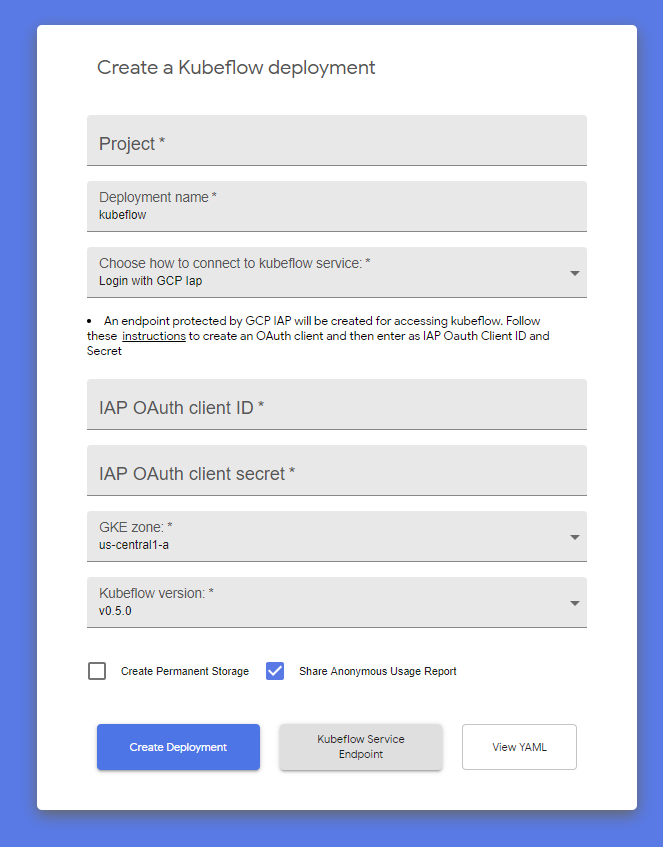
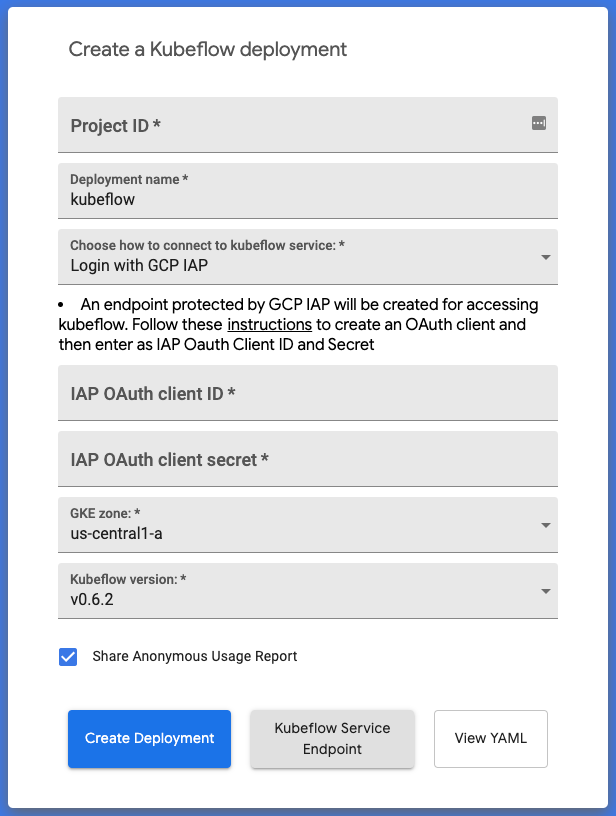
Updated the GCP deployment UI for Kubeflow v0.6.2. (#1219)

diff --git a/content/docs/gke/deploy/deploy-ui.md b/content/docs/gke/deploy/deploy-ui.md
@@ -30,14 +30,14 @@ Follow these steps to open the deployment UI and deploy Kubeflow on GCP:
   for your GCP project.
 1. Complete the following fields on the form:
 
-    * **Project:** Enter your GCP project ID.
+    * **Project ID:** Enter your GCP project ID.
     * **Deployment name:** Enter a short name that you can use to recognize this 
       deployment of Kubeflow.
       The maximum length for the deployment name is 25 characters.
-    * **Choose how to connect to Kubeflow:** You can choose one of the
+    * **Choose how to connect to Kubeflow service:** You can choose one of the
       following options:
 
-      * **Login with GCP Iap:** Choose this option if you want to use [Cloud 
+      * **Login with GCP IAP:** Choose this option if you want to use [Cloud 
         Identity-Aware Proxy (Cloud
         IAP)](https://cloud.google.com/iap/docs/) for access control.
         Cloud IAP is the best option for production deployments or deployments 
@@ -45,9 +45,6 @@ Follow these steps to open the deployment UI and deploy Kubeflow on GCP:
       * **Login with Username Password:** Choose this option if you want to
         allow users to access Kubeflow with a username and password, that is,
         with basic authentication. See more details [below](#basic-auth).
-      * **Setup Endpoint later:** *(Not recommended.)* Choose this option if you 
-        want to skip the authentication process and set up the URI for the 
-        Kubeflow UI later. See more details [below](#later-auth).
 
     * **GKE zone:** Enter the 
       [GCP zone](https://cloud.google.com/compute/docs/regions-zones/) in which 
@@ -57,11 +54,6 @@ Follow these steps to open the deployment UI and deploy Kubeflow on GCP:
       [Kubeflow releases page](https://github.com/kubeflow/kubeflow/releases/).
       If you need a version that does not show on the deployment UI, you need to
       [deploy Kubeflow using the CLI](/docs/gke/deploy/deploy-cli).
-    * **Create Permanent Storage:** Check this option if you plan to use 
-      [Kubeflow Pipelines](/docs/pipelines/pipelines-overview/) and you need 
-      persistent storage for your pipeline data. The default is not to add
-      persistent storage. For more information, see the guide to
-      [upgrading and reinstalling Kubeflow Pipelines](/docs/pipelines/upgrade/).
     * **Share Anonymous Usage Report:** Check this option to allow Kubeflow to
       report usage data using [Spartakus](https://github.com/kubernetes-incubator/spartakus). Spartakus does not report any personal information. The 
       default is to enable the reporting of usage data.
@@ -82,9 +74,9 @@ access to sensitive data.
 1. Follow the guide to [setting up OAuth 
   credentials](/docs/gke/deploy/oauth-setup/).
 
-1. Choose the **Login with GCP Iap** option on the Kubeflow deployment UI.
+1. Choose the **Login with GCP IAP** option on the Kubeflow deployment UI.
 
-1. Enter your **OAuth client ID** and **OAuth client secret** into the
+1. Enter your **IAP OAuth client ID** and **IAP OAuth client secret** into the
   corresponding fields on the deployment UI.
 
 1. Complete the rest of the form as described above.
@@ -106,7 +98,8 @@ accessing your Kubeflow URI.
 This section contains details about using basic authentication (username and
 password) to control access to Kubeflow. 
 
-1. Choose the **Login with Username Password** option on the Kubeflow deployment UI.
+1. Choose the **Login with Username Password** option on the Kubeflow deployment
+   UI.
 
 1. Enter a **username** and a **password** for use when accessing the UI for
   your Kubeflow deployment.
@@ -114,18 +107,6 @@ password) to control access to Kubeflow.
 1. Complete the rest of the form as described above.
 
 1. Click **Kubeflow Service Endpoint** to access your Kubeflow URI.
-
-<a id="later-auth"></a>
-## Setting up your endpoint later (not recommended)
-
-You can choose to deploy Kubeflow without creating an endpoint for the Kubeflow
-service.
-
-1. Choose the **Setup Endpoint later** option on the Kubeflow deployment UI.
-1. Finish the setup later by inserting your OAuth client into the
-  Kubeflow cluster. Read more about 
-  [customizing Kubeflow](/docs/gke/customizing-gke/) and
-  [securing your clusters](/docs/gke/private-clusters/).
 
 ## Next steps
 
@@ -135,7 +116,7 @@ service.
   example](https://github.com/kubeflow/examples/tree/master/github_issue_summarization).
 * See how to delete your Kubeflow deployment using the 
   [CLI](/docs/gke/deploy/delete-cli) 
-   or the [GCP Console](/docs/gke/deploy/delete-ui).
+  or the [GCP Console](/docs/gke/deploy/delete-ui).
 * See how to [customize](/docs/gke/customizing-gke) your Kubeflow 
   deployment.
 * See how to [upgrade Kubeflow](/docs/upgrading/upgrade/) and how to 
